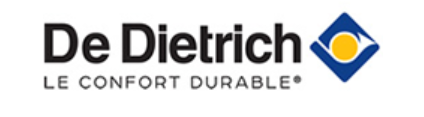
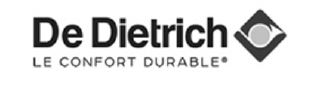
quelques modifs lien partenaires

diff --git a/index.html b/index.html
@@ -72,7 +72,7 @@
                                                 <li><a href="#home">HOME</a></li>
                                                 <li><a href="#history">A PROPOS</a></li>
                                                 <li><a href="#portfolio">NOS TRAVAUX</a></li>
-                                                <li><a href="#pricing">PRIX</a></li>
+                                                <!-- <li><a href="#pricing">PRIX</a></li> -->
                                                 <li><a href="#team">EQUIPE</a></li>
                                                 <li><a href="#blog">BLOG</a></li>
                                                 <li><a href="#contact">CONTACT</a></li>
@@ -109,8 +109,8 @@
                                                 <div class="separator"></div>
                                                 <p>De l'audit aux travaux, en passant par la mobilisation des aides, les experts France Rénovation proposent un service complet aux particuliers, professionnel :  bailleurs sociaux, copropriété et tertiaires.</p>
                                                 <div class="home_btn">
-                                                    <a href="https://bootstrapthemes.co" class="btn btn-lg m_t_10">GET STARTED NOW</a>
-                                                    <a href="https://bootstrapthemes.co" class="btn btn-default">LEARN MORE</a>
+                                                    <a href="#portfolio" class="btn btn-lg m_t_10">GET STARTED NOW</a>
+                                                    <a href="#history" class="btn btn-default">LEARN MORE</a>
                                                 </div>
 
                                             </div>
@@ -122,8 +122,8 @@
                                                 <div class="separator"></div>
                                                 <p>Bénéficiez d'une agence près de chez vous, un financement jusqu'a 100%. Bénéficiez du dispositif CEE et Ma prime'Renov ainsi que d'une expertise professionnelle Eco Responsable.</p>
                                                 <div class="home_btn">
-                                                    <a href="https://bootstrapthemes.co" class="btn btn-lg m_t_10">GET STARTED NOW</a>
-                                                    <a href="https://bootstrapthemes.co" class="btn btn-default">LEARN MORE</a>
+                                                    <a href="#portfolio" class="btn btn-lg m_t_10">GET STARTED NOW</a>
+                                                    <a href="#history" class="btn btn-default">LEARN MORE</a>
                                                 </div>
 
                                             </div>
@@ -135,8 +135,8 @@
                                                 <div class="separator"></div>
                                                 <p>Acteur majeur de la rénovation en France.</p>
                                                 <div class="home_btn">
-                                                    <a href="https://bootstrapthemes.co" class="btn btn-lg m_t_10">GET STARTED NOW</a>
-                                                    <a href="https://bootstrapthemes.co" class="btn btn-default">LEARN MORE</a>
+                                                    <a href="#portfolio" class="btn btn-lg m_t_10">GET STARTED NOW</a>
+                                                    <a href="#history" class="btn btn-default">LEARN MORE</a>
                                                 </div>
 
                                             </div>
@@ -231,7 +231,7 @@
                                     </div>
                                     <p>FranceRenovation se positionne comme le leader de la rénovation du secteur Grand Est. Son fondateur Zakaria MABSOUT a créé l'entreprise en juin 2015 après un match futsal et a voulu orienté l'entreprise pour s'inscrire dans une démarche de rénovation  plus souciseuse de l'environnement. FranceRenovation met en avant des acteurs professionnels de proximité pour créer des solutions propres, durables et responsables.</p>
 
-                                    <a href="" class="btn btn-lg">BROWSE OUR WORK</a>
+                                    <a href="#portfolio" class="btn btn-lg">BROWSE OUR WORK</a>
                                 </div>
                             </div>
                         </div>
@@ -631,7 +631,7 @@
             </section>   <!-- End of counter section -->
 
             <!-- Pricing Section -->
-            <section id="pricing" class="pricing">
+            <!-- <section id="pricing" class="pricing">
                 <div class="container">
                     <div class="row">
                         <div class="main_pricing_area sections">
@@ -641,7 +641,7 @@
                                     A 30 days free trial for all. A brief story about how this process works, keep an eye till the end.
                                 </div>
                                 <div class="separator"></div>
-                            </div><!-- End off Head_title -->
+                            </div>
 
                             <div class="col-md-4 col-sm-6">
                                 <div class="single_pricing">
@@ -663,7 +663,7 @@
                                         <a href="https://bootstrapthemes.co" class="btn btn-md">CHOOSE PLAN</a>
                                     </div>
                                 </div>
-                            </div> <!-- End off col-md-4 -->
+                            </div> 
                             <div class="col-md-4 col-sm-6">
                                 <div class="single_pricing pricing_business">
                                     <div class="pricing_head ">
@@ -684,7 +684,7 @@
                                         <a href="https://bootstrapthemes.co" class="btn btn-md">CHOOSE PLAN</a>
                                     </div>
                                 </div>
-                            </div> <!-- End off col-md-4 -->
+                            </div> 
                             <div class="col-md-4 col-sm-6">
                                 <div class="single_pricing">
                                     <div class="pricing_head">
@@ -705,11 +705,50 @@
                                         <a href="https://bootstrapthemes.co" class="btn btn-md">CHOOSE PLAN</a>
                                     </div>
                                 </div>
-                            </div> <!-- End off col-md-4 -->
+                            </div>
                         </div>
-                    </div><!-- End off row -->
-                </div><!-- End off container -->
-            </section><!-- End off Pricing Section -->
+                    </div>
+                </div>
+            </section> -->
+
+
+            <!-- Client Logo Section -->
+            <section id="clogo" class="clogo">
+                <div class="container">
+                    <div class="row">
+                        <div class="main_clogo sections text-center">
+                            <div class="head_title text-center">
+                                <h2>PARTENARIAT</h2>
+                                <div class="subtitle">
+                                    FranceRenovation peut s'appuyer sur un partenaire financier tel que Domofinance ou encore STO pour l'isolation.
+                                </div>
+                                <div class="separator"></div>
+                            </div><!-- End off Head_title -->
+
+                            <div class="col-sm-3 col-xs-6"> 
+                                <a href="https://www.domofinance.com/"><img src="assets/imagesfrancerenovation/partenaire1.jpg" alt="domofinance" /></a>
+                            </div>
+
+                            <div class="col-sm-3 col-xs-6"> 
+                                <a href="https://www.sto.fr/s/"><img src="assets/imagesfrancerenovation/partenaire2.png" alt="STO" /></a>
+                            </div>
+
+                            <div class="col-sm-3 col-xs-6"> 
+                                <a href="https://www.dedietrich-thermique.fr/"><img src="assets/imagesfrancerenovation/partenaire3.png" alt="DeDietrich" /></a>
+                            </div>
+
+                            <div class="col-sm-3 col-xs-6"> 
+                                <a href="https://www.mitsubishi-motors.fr/"><img src="assets/imagesfrancerenovation/partenaire4.png" alt="Mitsubishi" /></a>
+                            </div>
+                        </div>
+                    </div>
+                </div>
+                <div class="divider"></div>
+            </section><!-- End off clogo Section -->
+
+
+
+
 
             <!-- Team Section -->
             <section id="team" class="team">
@@ -718,9 +757,9 @@
                         <div class="row">
                             <div class="col-sm-12">
                                 <div class="head_title textwhite text-center margin-top-80">
-                                    <h2>OUR TEAM</h2>
+                                    <h2>NOTRE EQUIPE</h2>
                                     <div class="subtitle">
-                                        Meet the craziest team. Share your thoughts with them.
+                                        Rencontrez notre folle équipe. N'hésitez pas à échanger avec eux.
                                     </div>
                                     <div class="separator"></div>
                                 </div><!-- End off Head_title -->
@@ -756,19 +795,19 @@
                                         </li>
                                         <li>
                                             <div class="single_team_img">
-                                                <img src="assets/images/team4.jpg" alt="" />
+                                                <img src="assets/imagesfrancerenovation/team2.jpg" alt="" />
                                             </div>
                                             <div class="single_team_text">
-                                                <h4>Pet Romak</h4>
-                                                <p>Marketing</p>
+                                                <h4>Zakaria Mabsout</h4>
+                                                <p>Comminty Manager</p>
                                             </div>
                                         </li>
                                         <li>
                                             <div class="single_team_img">
-                                                <img src="assets/images/test2.jpg" alt="" />
+                                                <img src="assets/imagesfrancerenovation/team1.jpg" alt="" />
                                             </div>
                                             <div class="single_team_text">
-                                                <h4>Chet Pok</h4>
+                                                <h4>Issam Merikhi</h4>
                                                 <p>Web Developer</p>
                                             </div>
                                         </li>
@@ -781,35 +820,7 @@
                 </div>
             </section><!-- End off Team Section -->
 
-            <!-- Client Logo Section -->
-            <section id="clogo" class="clogo">
-                <div class="container">
-                    <div class="row">
-                        <div class="main_clogo sections text-center">
-                            <div class="head_title text-center">
-                                <h2>PARTENARIAT</h2>
-                                <div class="subtitle">
-                                    FranceRenovation peut s'appuyer sur un partenaire financier tel que Domofinance ou encore STO pour l'isolation.
-                                </div>
-                                <div class="separator"></div>
-                            </div><!-- End off Head_title -->
 
-                            <div class="col-sm-3 col-xs-6"> 
-                                <a href="https://www.domofinance.com/"><img src="assets/imagesfrancerenovation/partenaire1.png" alt="domofinance" /></a>
-                            </div>
-
-                            <div class="col-sm-3 col-xs-6"> 
-                                <a href="https://www.sto.fr/s/"><img src="assets/imagesfrancerenovation/partenaire2.png" alt="STO" /></a>
-                            </div>
-
-                            <div class="col-sm-3 col-xs-6"> 
-                                <a href="https://www.dedietrich-thermique.fr/"><img src="assets/imagesfrancerenovation/partenaire3.png" alt="DeDietrich" /></a>
-                            </div>
-                        </div>
-                    </div>
-                </div>
-                <div class="divider"></div>
-            </section><!-- End off clogo Section -->
 
 
             <!-- Blog Section -->
@@ -818,9 +829,9 @@
                     <div class="row">
                         <div class="main_blog sections">
                             <div class="head_title text-center">
-                                <h2>OUR BLOG</h2>
+                                <h2>L'ACTU</h2>
                                 <div class="subtitle">
-                                    Suspendisse sed eros mollis, tincidunt felis eget, interdum eratullam sit amet odio. 
+                                    Règlementations, tendances marché, idées recues, études consommateurs... Zoom sur toutes nos dernières actualités ! 
                                 </div>
                                 <div class="separator"></div>
                             </div><!-- End off Head_title -->
@@ -836,12 +847,10 @@
                                             </div>
                                             <div class="col-sm-6 no-padding">
                                                 <div class="single_blog_text s_b_left">
-                                                    <p>art/t-shirt</p>
-                                                    <h3>T-SHIRT DESIGN</h3>
+                                                    <!-- <p>art/t-shirt</p> -->
+                                                    <h3>Comment aider les européens en situation de précarité énergétique ?</h3>
                                                     <div class="separator2"></div>
-                                                    <p>Lorem Ipsum is simply dummy text of the printing and typesetting industry. Lorem Ipsum has been the indu Stry's 
-                                                        standard dummy text ever since the 1500s, an unknown printer took a galley of type 
-                                                        a scrambled it to make a type specimen book.</p>
+                                                    <p>Selon Eurostat, en 2020, 35 millions de personnes en Europe — soit 8% de la population — ne parvenaient pas à chauffer convenablement leur logement. Alors, quelles mesures sont prises à l’échelle de l’UE pour lutter contre la précarité énergétique ? C’était l’objet d’une conférence organisée mardi 10 mai 2022 par le réseau RAPPEL.</p>
 
                                                     <a href="" class="read_more">Read More >></a>
                                                 </div>
@@ -860,8 +869,8 @@
                                             </div>
                                             <div class="col-sm-6 no-padding">
                                                 <div class="single_blog_text s_b_left">
-                                                    <p>art/t-shirt</p>
-                                                    <h3>T-SHIRT DESIGN</h3>
+                                                    <!-- <p>art/t-shirt</p> -->
+                                                    <h3>Passoires thermiques : Boulogne-Billancourt dénombre le plus grand nombre de logements énergivores</h3>
                                                     <div class="separator2"></div>
                                                     <p>Lorem Ipsum is simply dummy text of the printing and typesetting industry. Lorem Ipsum has been the indu Stry's 
                                                         standard dummy text ever since the 1500s, an unknown printer took a galley of type 
@@ -885,7 +894,7 @@
 
                                             <div class="col-sm-6 col-sm-pull-6 no-padding">
                                                 <div class="single_blog_text s_b_right">
-                                                    <p>art/t-shirt</p>
+                                                    <!-- <p>art/t-shirt</p> -->
                                                     <h3>T-SHIRT DESIGN</h3>
                                                     <div class="separator2"></div>
                                                     <p>Lorem Ipsum is simply dummy text of the printing and typesetting industry. Lorem Ipsum has been the indu Stry's 
